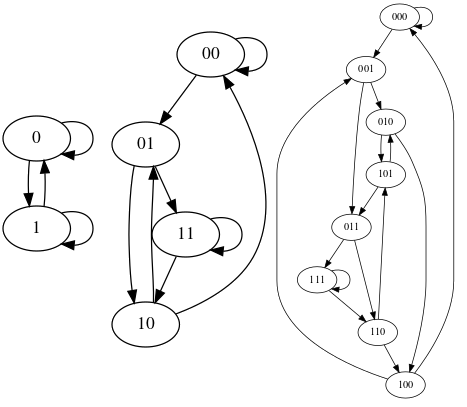
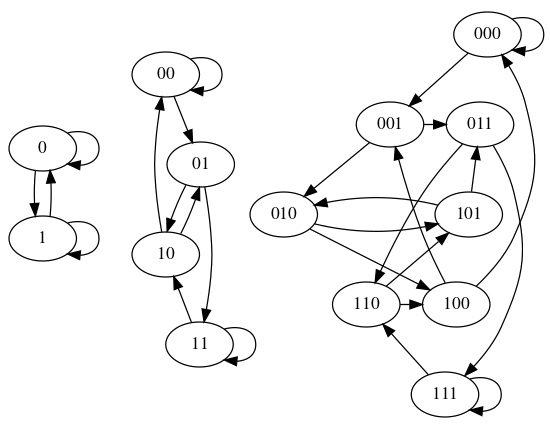
MDL blogging polish (incl. better state diagrams)

diff --git a/graph.py b/graph.py
@@ -1,3 +1,5 @@
+import itertools
+
 for n in range(1, 4):
     lines = []
     for bits in itertools.product(['0', '1'], repeat=n):

diff --git a/mdl_for_universal_science.md b/mdl_for_universal_science.md
@@ -1,7 +1,5 @@
 ## Message Length
 
-(I won't be brief ...)
-
 Someone is broadcasting a stream of bits. You don't know why. A 500-bit-long sample looks like this:
 
 ```
@@ -14,35 +12,37 @@ Someone is broadcasting a stream of bits. You don't know why. A 500-bit-long sam
 10011001101010101111...
 ```
 
-The thought occurs to you to [do Science to it](http://dresdencodak.com/2008/05/02/copan/)—to ponder if there's some way you could better [predict](https://www.lesswrong.com/posts/a7n8GdKiAZRX86T5A/making-beliefs-pay-rent-in-anticipated-experiences) what bits are going to come next. At first you might think that you can't—it's just a bunch of random bits. You can't predict it because that's what random _means_.
+The thought occurs to you to [do Science to it](http://dresdencodak.com/2008/05/02/copan/)—to ponder if there's some way you could better [predict](https://www.lesswrong.com/posts/a7n8GdKiAZRX86T5A/making-beliefs-pay-rent-in-anticipated-experiences) what bits are going to come next. At first you wonder if you can't—it's just a bunch of random bits. You can't predict it, because that's what random _means_.
 
 Or does it? True, if the sequence represented flips of a fair coin—every flip independently landing either `0` or `1` with exactly equal probability—then there would be no way you could predict what would come next: any continuation you could posit would be exactly as probable as any other.
 
 But if the sequence represented flips of a _biased_ coin—if, say, `1` came up 0.55 of the time instead of exactly 0.5—then it would be possible to predict better or worse. Your [best bet for the next bit in isolation would always be `1`](https://www.lesswrong.com/posts/msJA6B9ZjiiZxT6EZ/lawful-uncertainty), and you would more strongly anticipate sequences with slightly more `1`s than `0`s.
 
-You count 265 `1`s in the sample of 500 bits. _Given_ the hypothesis that the bits were generated by a fair coin, the number of `1`s (or [without loss of generality](https://en.wikipedia.org/wiki/Without_loss_of_generality), `0`s) would be given by the binomial distribution ${500\choose k} (0.5)^k (0.5)^{500-k}$, which [has a standard deviation of](https://en.wikipedia.org/wiki/Binomial_distribution) $\sqrt{500 \cdot 0.5^2} = \sqrt{125} \approx 11.18$, so your observation of $265 - 250 = 15$ excess `1`s is about $\frac{15}{11.18} \approx 1.34$ standard deviations from the mean—not out of the realm of plausibility of happening by chance, although you're certainly _suspicious_ that the coin behind these bits isn't quite fair.
+You count 265 `1`s in the sample of 500 bits. _Given_ the hypothesis that the bits were generated by a fair coin, the number of `1`s (or [without loss of generality](https://en.wikipedia.org/wiki/Without_loss_of_generality), `0`s) would be given by the binomial distribution ${500\choose k} (0.5)^k (0.5)^{500-k}$, which [has a standard deviation of](https://en.wikipedia.org/wiki/Binomial_distribution) $\sqrt{500 \cdot 0.5^2} = \sqrt{125} \approx 11.18$, so your observation of $265 - 250 = 15$ excess `1`s is about $\frac{15}{11.18} \approx 1.34$ standard deviations from the mean—certainly in the realm of plausibility of happening by chance, although you're at least slightly _suspicious_ that the coin behind these bits might not be quite fair.
 
-... that is, if it's even a coin. You love talking in terms of shiny, if hypothetical, "coins" rather than stodgy old "[independent and identically distributed](https://en.wikipedia.org/wiki/Independent_and_identically_distributed_random_variables) binary-valued random variables", but looking at the sample again, you begin to _further_ doubt whether the bits are independent of each other. You've [heard that humans are biased](https://www.lesswrong.com/posts/6xGC9P8wp2mi7uhti/inaccessible-finely-tuned-rng-in-humans) to overestimate the frequency of alternations (`101010`...) and underestimate the frequency of consecutive runs (`00000`... or `11111`...) in "truly" (uniformly) random data, but the 500-bit sample contains a run of 13 `0`s (starting at position 243) _and_ a run of 19 `1`s (starting at position 319). You're not immediately sure how to [calculate](http://www.gregegan.net/QUARANTINE/Runs/Runs.html) the [probability](https://www.johndcook.com/blog/2012/11/14/probability-of-long-runs/) of that, but your gut says that should be very unlikely given the biased-coin model, even after taking into account that human guts aren't very good at estimating these things.
+... that is, if it's even a coin. You love talking in terms of shiny, if hypothetical, "coins" rather than stodgy old "[independent and identically distributed](https://en.wikipedia.org/wiki/Independent_and_identically_distributed_random_variables) [binary-valued random variables](https://en.wikipedia.org/wiki/Bernoulli_distribution)", but looking at the sample again, you begin to _further_ doubt whether the bits are independent of each other. You've [heard that humans are biased](https://www.lesswrong.com/posts/6xGC9P8wp2mi7uhti/inaccessible-finely-tuned-rng-in-humans) to overestimate the frequency of alternations (`101010`...) and underestimate the frequency of consecutive runs (`00000`... or `11111`...) in "truly" (uniformly) random data, but the 500-bit sample contains a run of 13 `0`s (starting at position 243) _and_ a run of 19 `1`s (starting at position 319). You're not immediately sure how to [calculate](http://www.gregegan.net/QUARANTINE/Runs/Runs.html) the [probability](https://www.johndcook.com/blog/2012/11/14/probability-of-long-runs/) of that, but your gut says that should be very unlikely given the biased-coin model, even after taking into account that human guts aren't very good at estimating these things.
 
 Maybe not everything in the universe is a coin. What if the bits were being generated by a [Markov chain](https://en.wikipedia.org/wiki/Markov_chain)—if the probability of the next bit depended on the value of the one just before? If a `0` made the _next_ bit more likely to be a `0`, and the same for `1`, that would make the `00000`... and `11111`... runs less improbable.
 
-Except ... the sample _also_ has a run of 17 alternations (starting at position 153). On the "fair coin" model, that should be $2^{17-13} = 16$ times as suspicious as the run of 13 `0`s and $2^{17-19} = \frac{1}{4}$ as suspicious as the run of 19 `1`s which led you to hypothesize a Markov chain. But a Markov chain in which a `0` or `1` makes another of the same more likely, makes alternations _less_ likely: the Markov chain hypothesis can only make the consecutive runs look less surprising at the expense of making the run of alternations look _more_ surprising.
+Except ... the sample _also_ has a run of 17 alternations (starting at position 153). On the "fair coin" model, shouldn't that itself be $2^{17-13} = 16$ times as suspicious as the run of 13 `0`s and $2^{17-19} = \frac{1}{4}$ as suspicious as the run of 19 `1`s which led you to hypothesize a Markov chain?—or rather, 8 and $\frac{1}{8}$ times as suspicious, respectively, because there are two ways for an alternation to occur (`0101010`... or `1010101`...).
 
-So maybe it's all just a coincidence: the broadcast is random—whatever that means—and you're just pattern-matching on noise. Unless ...
+A Markov chain in which a `0` or `1` makes another of the same more likely, makes alternations _less_ likely: the Markov chain hypothesis can only make the consecutive runs look less surprising at the expense of making the run of alternations look _more_ surprising.
 
-Could it be that some things in the universe are _neither_ coins _nor_ Markov chains? You don't _know_ who is broadcasting these bits or why; you called it "random" because you didn't see any obvious pattern, but now that you think about it, it would be pretty weird for someone to just be broadcasting random bits. Probably the broadcast is something humans find interesting, like a movie or a stock ticker; if a close-up sample of the individual bits looks "random", that's only because you don't know the [codec](https://en.wikipedia.org/wiki/Codec).
+So maybe it's all just a coincidence: the broadcast is random—whatever that means—and you're just apophenically pattern-matching on noise. Unless ...
+
+Could it be that some things in the universe are _neither_ coins _nor_ Markov chains? You don't _know_ who is broadcasting these bits or why; you called it "random" because [you didn't see](https://www.lesswrong.com/posts/f6ZLxEWaankRZ2Crv/probability-is-in-the-mind) any obvious pattern, but now that you think about it, it would be pretty weird for someone to just be broadcasting random bits. Probably the broadcast is something like a movie or a stock ticker; if a close-up sample of the individual bits looks "random", that's only because you don't know the [codec](https://en.wikipedia.org/wiki/Codec).
 
 Trying to guess a video codec is [_obviously_ impossible](https://www.lesswrong.com/posts/5wMcKNAwB6X4mp9og/that-alien-message). Does that kill all hope of being able to better predict future bits? _Maybe_ not. Even if you don't know what the broadcast is really for, there might be some nontrivial _local_ structure to it, where bits are statistically related to the bits nearby, like how a dumb encoding of a video might have consecutive runs of the same bit where a large portion of a frame is the same color, like the sky.
 
-Local structure, where bits are statistically related to the bits nearby ... kind of like a Markov chain, except in a Markov chain the probability of the next bit only depends on the _one_ immediately before, which is a pretty narrow notion of "nearby." To broaden that, you could define a _higher-order_ Markov chain, where the probability of the next bit depends on the previous _n_ bits for some specific value of _n_.
-
-[TODO: don't conflate bits and states in the definition of Markov chain]
+Local structure, where bits are statistically related to the bits nearby ... kind of like a Markov chain, except in a Markov chain the probability of the next state only depends on the _one_ immediately before, which is a pretty narrow notion of "nearby." To broaden that, you could imagine the bits are being generated by a [_higher-order_ Markov chain](https://en.wikipedia.org/wiki/Discrete-time_Markov_chain#Variations), where the probability of the next bit depends on the previous _n_ bits for some specific value of _n_.
 
 And _that's_ how you can explain mysteriously frequent consecutive runs and alternations. If the last _two_ bits being `01` (respectively `10`) makes it more likely for the next bit to be `0` (respectively `1`), _and_ the last two bits being `00` (respectively `11`) makes it more likely for the next bit to be `0` (respectively `1`), then you would be more likely to see both long `0000`... or `1111`... consecutive runs _and_ `01010`... alternations.
 
-A biased coin is just an _n_-th-order Markov chain where _n_ = 0. An _n_-th-order Markov chain where _n_ > 1, is just a first-order Markov chain where each "state" is a tuple of bits, rather than a single bit. Everything in the universe is a Markov chain!—with respect to the models you've considered so far.
+A biased coin is just an _n_-th-order Markov chain where _n_ = 0. An _n_-th-order Markov chain where _n_ > 1, is just a first-order Markov chain where each "state" is a tuple of bits, rather than a single bit. 
 
-![](https://i.imgur.com/bYgAr5y.png)
+![](https://i.imgur.com/frm9VkC.png)
+
+Everything in the universe is a Markov chain!—with respect to the models you've considered so far.
 
 "The bits are being generated by a Markov chain of some order" is _a_ theory, but a pretty broad one. To make it concrete enough to test, you need to posit some specific order _n_, and, given _n_, specific parameters for the next-bit-given-previous-_n_ probabilities.
 
@@ -50,19 +50,19 @@ The _n_ = 0 coin has one parameter: the bias of the coin, the probability of the
 
 The _n_ = 1 ordinary Markov chain has two parameters: the probability of the next bit being (without loss of generality) `0` _given_ that the last bit was a `0`, and the probability of the next bit being (without loss of ...) `0` _given_ that the last bit was a `1`.
 
-The _n_ = 2 second-order Markov chain has four parameters: the probability of the next bit being (without loss ...) `0` _given_ that the last two bits were `00`, the probability of the next bit being (without ...) `0` _given_ that the last two bits were `01`, the probability of the next bit being (...) `0` _given_ that the last two bits were `10`—
+The _n_ = 2 second-order Markov chain has four parameters: the probability of the next bit being (without loss ...) `0` _given_ that the last two bits were `00`, the probability of the next bit being (without ...) `0` _given_ that the last two bits were `01`, the probability of the next bit being—
 
 _Enough!_ You get it! The _n_-th order Markov chain has $2^{n}$ parameters!
 
 Okay, but then how do you guess the parameters?
 
-For the _n_ = 0 coin, your _best guess_ at the frequency-of-`0` parameter is going to just be the frequency of `0`s you've observed. Your best guess could easily be wrong, and probably is: just because you observed 235/500 = 0.47 `0`s, doesn't mean the parameter _is_ 0.47: it's probably somewhat lower or higher, and your sample got more or fewer `0`s than average just by chance. But positing that the observed frequency is the "actual" parameter is the [maximum likelihood estimate](https://en.wikipedia.org/wiki/Maximum_likelihood_estimation)—the single value that _most_ makes the data ["look normal"](https://www.lesswrong.com/posts/tWLFWAndSZSYN6rPB/think-like-reality).
+For the _n_ = 0 coin, your _best guess_ at the frequency-of-`0` parameter is going to just be the frequency of `0`s you've observed. Your best guess could easily be wrong, and probably is: just because you observed 235/500 = 0.47 `0`s, doesn't mean the parameter _is_ 0.47: it's probably somewhat lower or higher, and your sample got more or fewer `0`s than average just by chance. But positing that the observed frequency is the actual parameter is the [maximum likelihood estimate](https://en.wikipedia.org/wiki/Maximum_likelihood_estimation)—the single value that _most_ makes the data ["look normal"](https://www.lesswrong.com/posts/tWLFWAndSZSYN6rPB/think-like-reality).
 
 For _n_ ≥ 1, it's the same idea: your best guess for the frequency-of-`0`-after-`0` parameter is just the frequency of `0` being the next bit, among all the places where `0` was the last bit, and so on.
 
 You can write a program that takes the data and a degree _n_, and computes the maximum-likelihood estimate for the _n_-th order Markov chain that might have produced that data. Just slide a (_n_+1)-bit "window" over the data, and keep a tally of the frequencies of the "plus-one" last bit, for each of the $2^{n}$ possible _n_-bit patterns.
 
-In the [Rust](https://www.rust-lang.org/) programming language, that looks like following. (Where our final theory is output as a [map](https://en.wikipedia.org/wiki/Hash_table) (`HashMap`) from _n_+1-bit-patterns to frequencies/parameter-values (stored as a thirty-two bit floating-point number, `f32`).)
+In the [Rust](https://www.rust-lang.org/) programming language, that looks like following. (Where the representation of our final theory is output as a [map](https://en.wikipedia.org/wiki/Hash_table) (`HashMap`) from _n_+1-bit-patterns to frequencies/parameter-values (stored as a thirty-two bit floating-point number, `f32`).)
 
 ```
 [TODO: rewrite code to be more readable:
@@ -130,25 +130,29 @@ There's a problem. Higher choices of _n_ monotonically achieve a better "fit". Y
 
 In retrospect, the problem should have been obvious from the start. Using your sample data to choose maximum-likelihood parameters, and then using the model with those parameters to "predict" the _same_ data puts you in the position of [the vaunted "sharpshooter"](https://en.wikipedia.org/wiki/Texas_sharpshooter_fallacy) who paints a target around a clump of bullet holes _after_ firing wildly at the broad side of a barn.
 
-Higher-values of _n_ [are like](https://en.wikipedia.org/wiki/Overfitting) a ... thinner paintbrush?—or a squigglier, more "gerrymandered" painting of a target. Higher-order Markov chains are _strictly_ more expressive than lower-order ones: the zeroth-order coin is just a first-order Markov chain where the next-bit-after-`0` and next-bit-after-`1` parameters just happen to be the same; the second-order Markov chain is just a first-order chain where the next-bit-after-`00` and next-bit-after-`10` parameters happen to be the same, as well as the next-bit-after-`01` and—_enough!_ You get it!
+Higher values of _n_ [are like](https://en.wikipedia.org/wiki/Overfitting) a ... thinner paintbrush?—or a squigglier, more "gerrymandered" painting of a target. Higher-order Markov chains are _strictly_ more expressive than lower-order ones: the zeroth-order coin is just a first-order Markov chain where the next-bit-after-`0` and next-bit-after-`1` parameters just happen to be the same; the second-order Markov chain is just a first-order chain where the next-bit-after-`00` and next-bit-after-`10` parameters happen to be the same, as well as the next-bit-after-`01` and—_enough!_ You get it!
 
-The broadcast is ongoing; you're not limited to the particular 500-bit sample you've been playing with. If the worry were _just_ that the higher-order models will (somehow, you intuit) fail to predict future data, you could [use different samples for parameter estimation and model validation](https://en.wikipedia.org/wiki/Training,_validation,_and_test_sets), but you think you're suffering from some more fundamental confusion—one that might not be limited to Markov chains in particular.
+The broadcast is ongoing; you're not limited to the particular 500-bit sample you've been playing with. If the worry were _just_ that the higher-order models will (somehow, you intuit) fail to predict future data, you could [use different samples for estimating parameters and validating the resulting models](https://en.wikipedia.org/wiki/Training,_validation,_and_test_sets), but you think you're suffering from some more fundamental confusion—one that's probably not limited to Markov chains in particular.
 
-_How_ do you know (and your gut says that you _know_) that the higher-order models will do badly on future data, if your objective, quantitative measure of model-goodness says they're better? Your working concept of what it means for a theory to "fit" the data—maximizing the probability (or, just the same but without so many zeros after the decimal point, minimizing the negated logarithm of the probability) with which the theory the theory predicts the data—always "wants" to you to choose ever-more-complex models. You asked: what would that even _mean_? But maybe it doesn't have to be a rhetorical question: what _would_ that even mean?
+Your working concept of what it means for a theory to "fit" the data, is for it to maximize the probability with which the theory predicts the data. This is an objective, _quantitative_ measurement. (Okay, the log loss is taking the negative logarithm of that to avoid so many zeros after the decimal point, but minimizing the log loss and maximizing the probability express the same preference on theories.)
 
-Well ... in the limit, you could choose a theory that assigns [Probability One](https://www.lesswrong.com/posts/ooypcn7qFzsMcy53R/infinite-certainty) to the observed data. The "too many zeros"/"avoid working with really tiny numbers" justification for taking the negative log doesn't really apply here, but for consistency with your earlier results, the logarithm of 1 is 0 ...
+_How_ do you know (and your gut says that you _know_) that the higher-order models will do badly on future data, if your objective criterion of model-goodness says they're better? The log loss always "wants" to you to choose ever-more-complex models. You asked: what would that even _mean_? But maybe it doesn't have to be a rhetorical question: what _would_ that even mean?
 
-And maybe "too many zeros" isn't the only good motivation for taking the logarithm? [_Intelligence is prediction is compression_.](https://www.lesswrong.com/posts/ex63DPisEjomutkCw/msg-len) The log loss of a model against the data can be interpreted as [the expected number of bits you would need to describe the data, given the optimal code implied by your model](https://arbital.greaterwrong.com/p/fractional_bits_as_expected_cost). In order to communicate a reduction in your uncertainty, [you need to send a signal](https://www.lesswrong.com/posts/4hLcbXaqudM9wSeor/philosophy-in-the-darkest-timeline-basics-of-the-evolution)—something you can choose to vary in response to the reality of the data. A signal you can vary to take two possible states can distinguish between two sets among which you've divided the remaining possibilities; writing down a bit means halving your uncertainty.
+Well ... in the limit, you could choose a theory that assigns [Probability One](https://www.lesswrong.com/posts/ooypcn7qFzsMcy53R/infinite-certainty) to the observed data. The "too many zeros"/"avoid working with really tiny numbers" justification for taking the negative log doesn't really apply here, but for consistency with your earlier results, you dutifully note that the logarithm of 1 is 0 ...
 
-On this interpretation, what the equation $log_2 1 = 0$ is saying is that if your theory predicted the exact outcome with certainty, then once you stated the theory, you wouldn't have to say anything more in order to describe the data—you would just _know_ with zero further bits.
+But maybe "too many zeros" isn't the only good motivation for taking the logarithm? [_Intelligence is prediction is compression_.](https://www.lesswrong.com/posts/ex63DPisEjomutkCw/msg-len) The log loss of a model against the data can be interpreted as the [expected number of bits](https://arbital.greaterwrong.com/p/fractional_bits_as_expected_cost) you would need to describe the data, given the [optimal code](https://www.lesswrong.com/posts/soQX8yXLbKy7cFvy8/entropy-and-short-codes) implied by your model.
 
-_Once you stated the theory_. A theory implies an optimally efficient coding by which further bits can whittle down the space of possibilities to the data that actually happened. More complicated or unlikely data requires more bits just to _specify_—to single out that one possibility amongst the vastness of equally remote alternatives. But _the same thing goes for theories_. 
+In order to communicate a reduction in your uncertainty, [you need to send a signal](https://www.lesswrong.com/posts/4hLcbXaqudM9wSeor/philosophy-in-the-darkest-timeline-basics-of-the-evolution)—something you can choose to vary in response to the reality of the data. A signal you can vary to take two possible states, can distinguish between two sets among which you've divided the remaining possibilities; writing down a bit means halving your uncertainty.
 
-Given a particular precision to which parameters are specified, there are exponentially more Markov chains of higher degrees, which can continue to drive down the log loss—but not faster than their _own_ probability decreases. You need exponentially more data just to learn the parameters of a higher-order model. If you don't _have_ that much data—enough to pin down the $2^n$ parameters that single out this _particular_ higher-order Markov chain amongst the vastness of equally remote alternatives—then your maximum-likelihood best guess is not going to be very good on future data, for the same reason you [can't expect to correctly guess](https://www.lesswrong.com/posts/zFuCxbY9E2E8HTbfZ/perpetual-motion-beliefs) that a biased coin has a bias of exactly _p_ = 0.23 if you've only seen it flipped twice.
+On this interpretation, what the logarithm of Probability One being zero _means_ is that if your theory predicted the exact outcome with certainty, then once you stated the theory, you wouldn't have to say anything more in order to describe the data—you would just _know_ with zero further bits.
 
-If you _do_ have enough data to learn a more complex model, but the data was actually generated by a simpler model, then the parameters of the complex model will take the settings that produce the same behavior as the simpler model—like a second-order Markov chain for which the bit-following-`01` parameter happens to take the same value as the bit-following-`11` parameter. And if you're deciding what theory to prefer based on both fit and complexity, the more complex model won't be able to "pay" for its increased complexity with its own predictions.
+_Once you stated the theory_. A theory implies an optimally efficient coding by which further bits can whittle down the space of possibilities to the data that actually happened. More complicated or unlikely data requires more bits just to _specify_—to single out that one possibility amongst the vastness of equally remote alternatives. But [_the same thing goes for theories_](https://www.lesswrong.com/posts/nj8JKFoLSMEmD3RGp/how-much-evidence-does-it-take).
 
-Now that you know what's going on, you can modify your code to penalize more complex models. Since your parameters in your implementation are 32-bit floats, you assign a complexity cost of $32 \cdot 2^n$ bits to _n_-th order Markov chains, and look at the sum of fit (log loss) and complexity. Trying out your code again on a larger sample of 10,000 bits from the broadcast—
+Given a particular precision to which parameters are specified, there are exponentially more Markov chains of higher degrees, which can continue to drive down the log loss—but not faster than their _own_ probability decreases. You need exponentially more data just to learn the parameters of a higher-order model. [If you don't _have_ that much data](https://www.lesswrong.com/posts/X2AD2LgtKgkRNPj2a/privileging-the-hypothesis)—enough to pin down the $2^n$ parameters that single out this _particular_ higher-order Markov chain amongst the vastness of equally remote alternatives—then your maximum-likelihood best guess is not going to be very good on future data, for the same reason you [can't expect to correctly guess](https://www.lesswrong.com/posts/zFuCxbY9E2E8HTbfZ/perpetual-motion-beliefs) that a biased coin has a probability of landing `0` of exactly 0.23 if you've only seen it flipped twice.
+
+If you _do_ have enough data to learn a more complex model, but the data was actually generated by a simpler model, then the parameters of the complex model will take the settings that produce the same behavior as the simpler model—like a second-order Markov chain for which the bit-following-`01` parameter happens to take the same value as the bit-following-`11` parameter. And if you're deciding what theory to prefer based on both fit and complexity, [the more complex model won't be able to "pay" for its increased complexity](https://www.lesswrong.com/posts/f4txACqDWithRi7hs/occam-s-razor) with its own predictions.
+
+Now that you know what's going on, you can [modify your code to penalize](https://www.lesswrong.com/posts/H59YqogX94z5jb8xx/inductive-bias) more complex models. Since the parameters in your implementation are 32-bit floats, you assign a complexity cost of $32 \cdot 2^n$ bits to _n_-th order Markov chains, and look at the sum of fit (log loss) and complexity. Trying out your code again on a larger sample of 10,000 bits from the broadcast—
 
 ```
 0th-order theory: fit = 9966.63, complexity = 32, total = 9998.63
@@ -163,13 +167,6 @@ Now that you know what's going on, you can modify your code to penalize more com
 9th-order theory: fit = 8510.564, complexity = 16384, total = 24894.564
 ```
 
-You see that a third-order theory is preferred. [TODO: say something pretentious about Science to tie off the ending]
-
-
-https://www.lesswrong.com/posts/soQX8yXLbKy7cFvy8/entropy-and-short-codes
-https://www.lesswrong.com/posts/nj8JKFoLSMEmD3RGp/how-much-evidence-does-it-take
-https://www.lesswrong.com/posts/H59YqogX94z5jb8xx/inductive-bias
-https://www.lesswrong.com/posts/X2AD2LgtKgkRNPj2a/privileging-the-hypothesis
-https://www.lesswrong.com/posts/f4txACqDWithRi7hs/occam-s-razor
+—reveals a clear preference for a third-order theory, allowing you to enjoy the huge [TODO-bit] leap in compression/prediction from _n_ := 2 to 3 and _logically stop there_, the steepness of the ascent into the madness of arbitrary complexity successfully dissuading you from chasing after diminishing returns (which [you suspect](https://en.wikipedia.org/wiki/Shannon%27s_source_coding_theorem) are only hallucinatory). That's the power packed by parsimony—the sublime simplicity of _Science_.
 
 [(Full source code.)](TODO)
